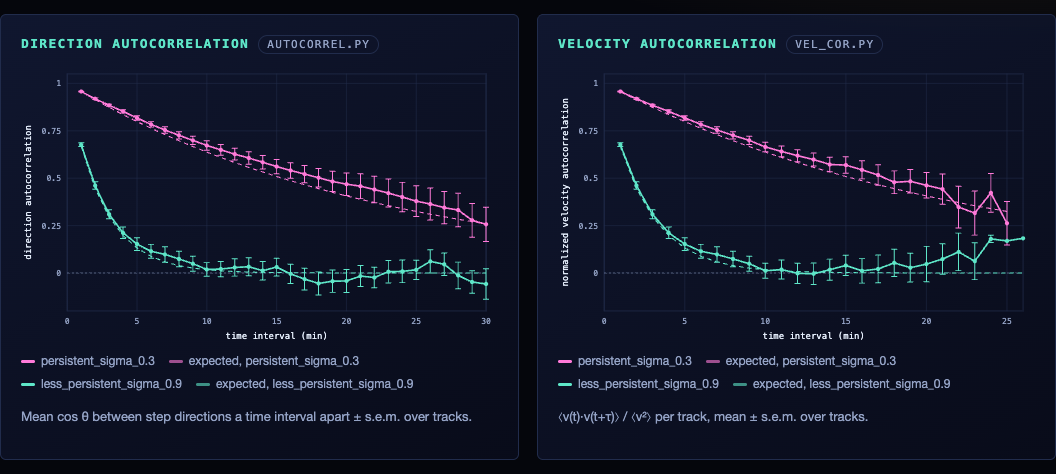
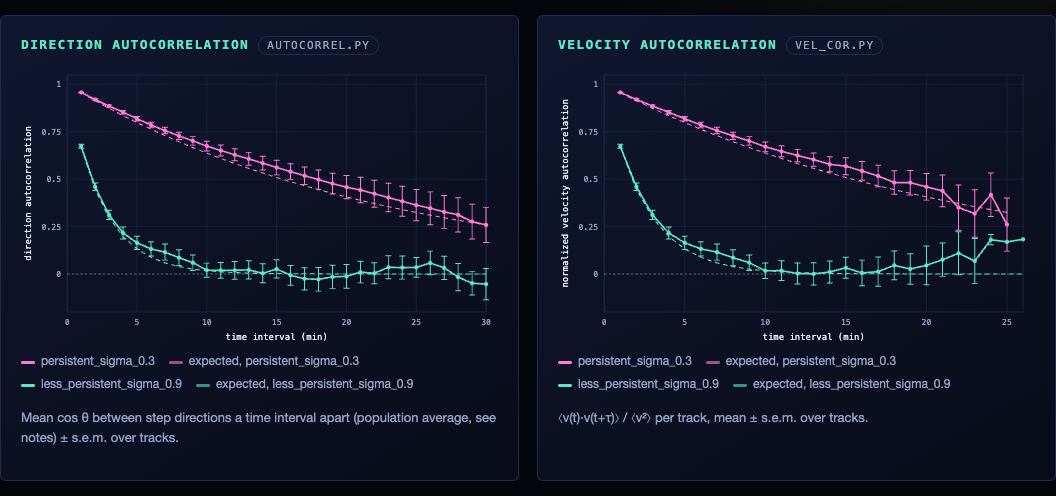
Update docs, session log and README screenshots for eq 5 weighting and sample s.e.m.

diff --git a/SESSION_LOG.md b/SESSION_LOG.md
@@ -24,10 +24,14 @@ summary, 3 CSV exports), Methods, Data format, About. Left out of the web: Autoc
 - `load_data` left column 7 under its own header, so Autocorrel_3D never found 'z' unless the header was exactly 'z'.
 - Docs described functions, a `python -m diper.main` CLI and example data that do not exist: corrected.
 
-**Needs George's decision** (not changed):
-- Population averaging: the paper's eq 5 weights each cell's DA by its number of displacements; the package (and
-  so the web pages) averages per-track curves unweighted.
-- s.e.m. uses np.std with ddof 0 everywhere except the Dir_Ratio last-point plot (pandas, ddof 1).
+**Follow-up the same day (George: follow the paper)**, separate "Fix ..." commits:
+- Autocorrel, Autocorrel_3D, Autocorrel_NoGaps and Vel_Cor now average cells as in the paper's eq 5, weighted by
+  each cell's number of displacements (`weighting="displacements"`, the default); `weighting="tracks"` keeps the
+  old plain per-track mean. A shared `utils.average_curves` replaces four copies of the averaging loop. The web pages
+  offer both.
+- s.e.m. is the sample s.e.m. (ddof=1) everywhere, via `utils.sem`.
+- The paper PDF was removed from docs/ (publisher's copyright; still in git history), docs/*.pdf is ignored, and the
+  DOI is linked instead.
 
-**Tests**: `pytest tests` 62 passed; node engine test ok (worst 9.95e-16); screenshots.py --static and --base all ok,
+**Tests** (after the follow-up): `pytest tests` 82 passed; node engine test ok (5 cases, worst 9.77e-16); screenshots.py --static and --base all ok,
 no overflow at 390 px.

diff --git a/INTERFACE.md b/INTERFACE.md
@@ -30,6 +30,10 @@
 - **utils.py** — Shared utilities
   - `load_data(file_path)` -> dict of DataFrames
   - `split_trajectories(df)` -> list of DataFrames
+  - `sem(values)` -> sample s.e.m. (ddof=1), used for every error bar
+  - `average_curves(curves, time_col, value_col, weights=None)` -> per-interval avg/sem/n; weights = displacements
+    per cell for the paper's eq 5 (used by autocorrel, autocorrel_3d, autocorrel_nogaps, vel_cor)
+  - `track_weights(weighting, n_displacements)`: 'displacements' (paper, default) or 'tracks' (plain mean)
   - `ensure_output_dir(output_dir, subdir)` -> str
   - `save_figure(fig, output_dir, filename, formats)`
   - `save_results(df, output_dir, filename)`
@@ -68,6 +72,7 @@
 - **test_autocorrel.py** — Tests for vector normalization, autocorrelation computation
 - **test_msd.py** — Tests for MSD computation and averaging
 - **test_vel_cor.py**, **test_dir_ratio.py**, **test_plot_at_origin.py** — regression tests for the 2026-11-12 fixes
+- **test_sem.py**, **test_weighting.py** — sample s.e.m.; eq 5 weighting vs plain mean
 - **test_imports.py** — every module imports with only the declared dependencies
 - **test_web.py** — web API, static build, fixture currency (rtol 1e-9), Python == run_* functions, node engine test
 
